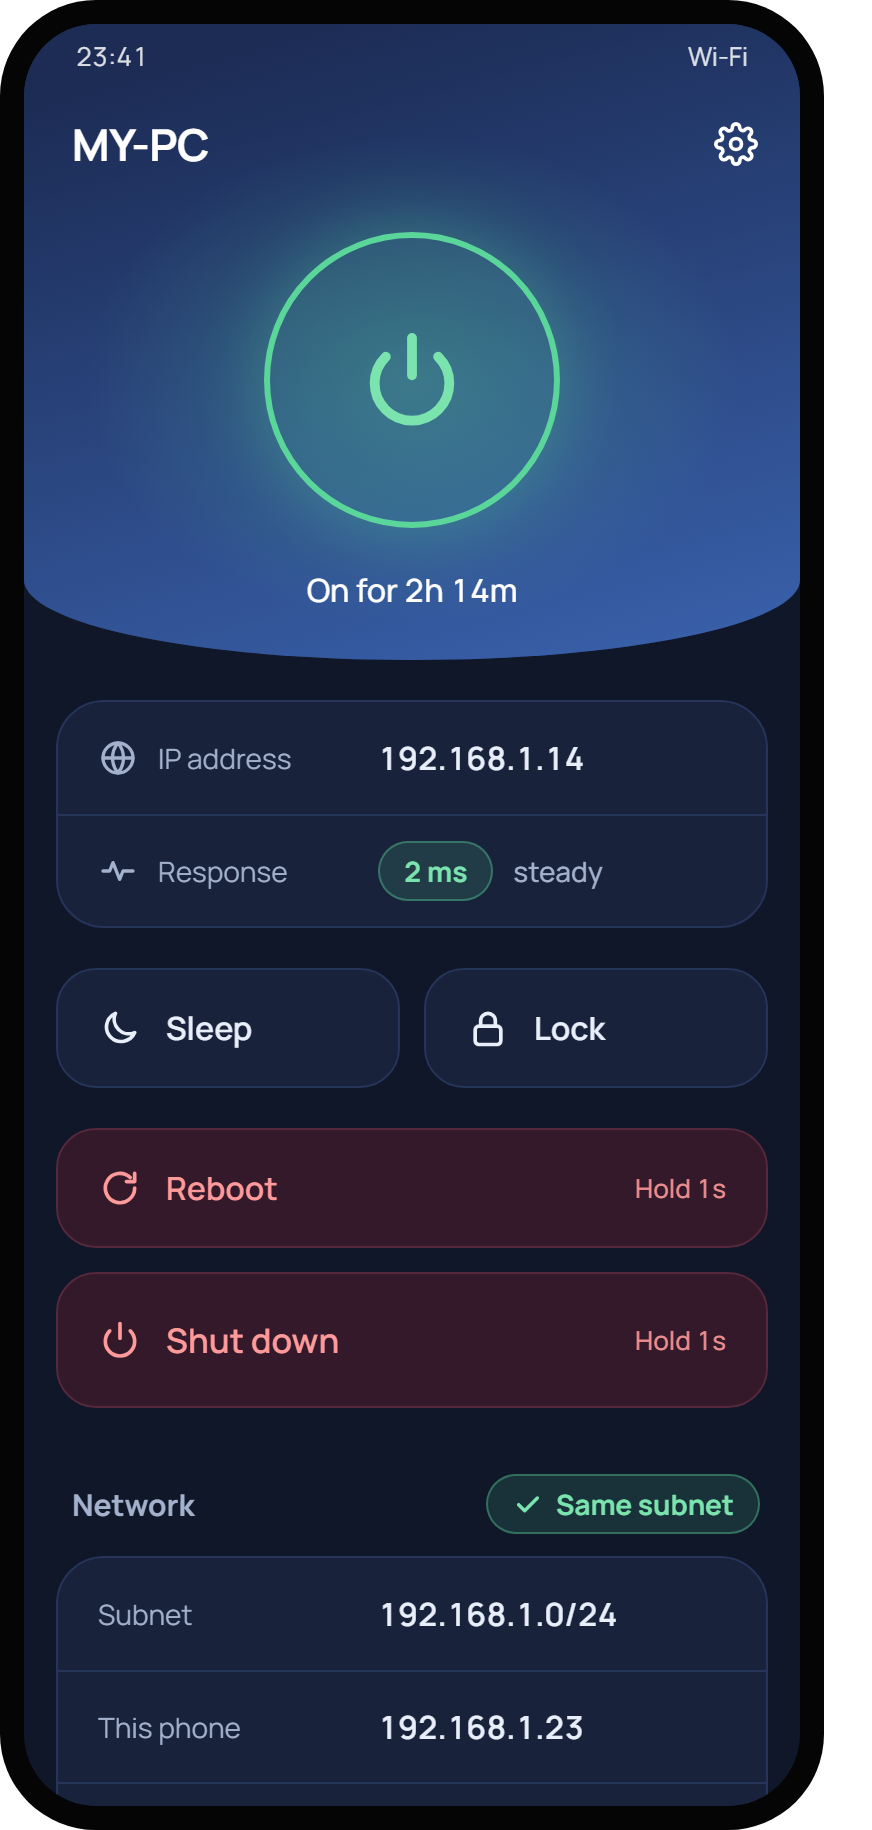
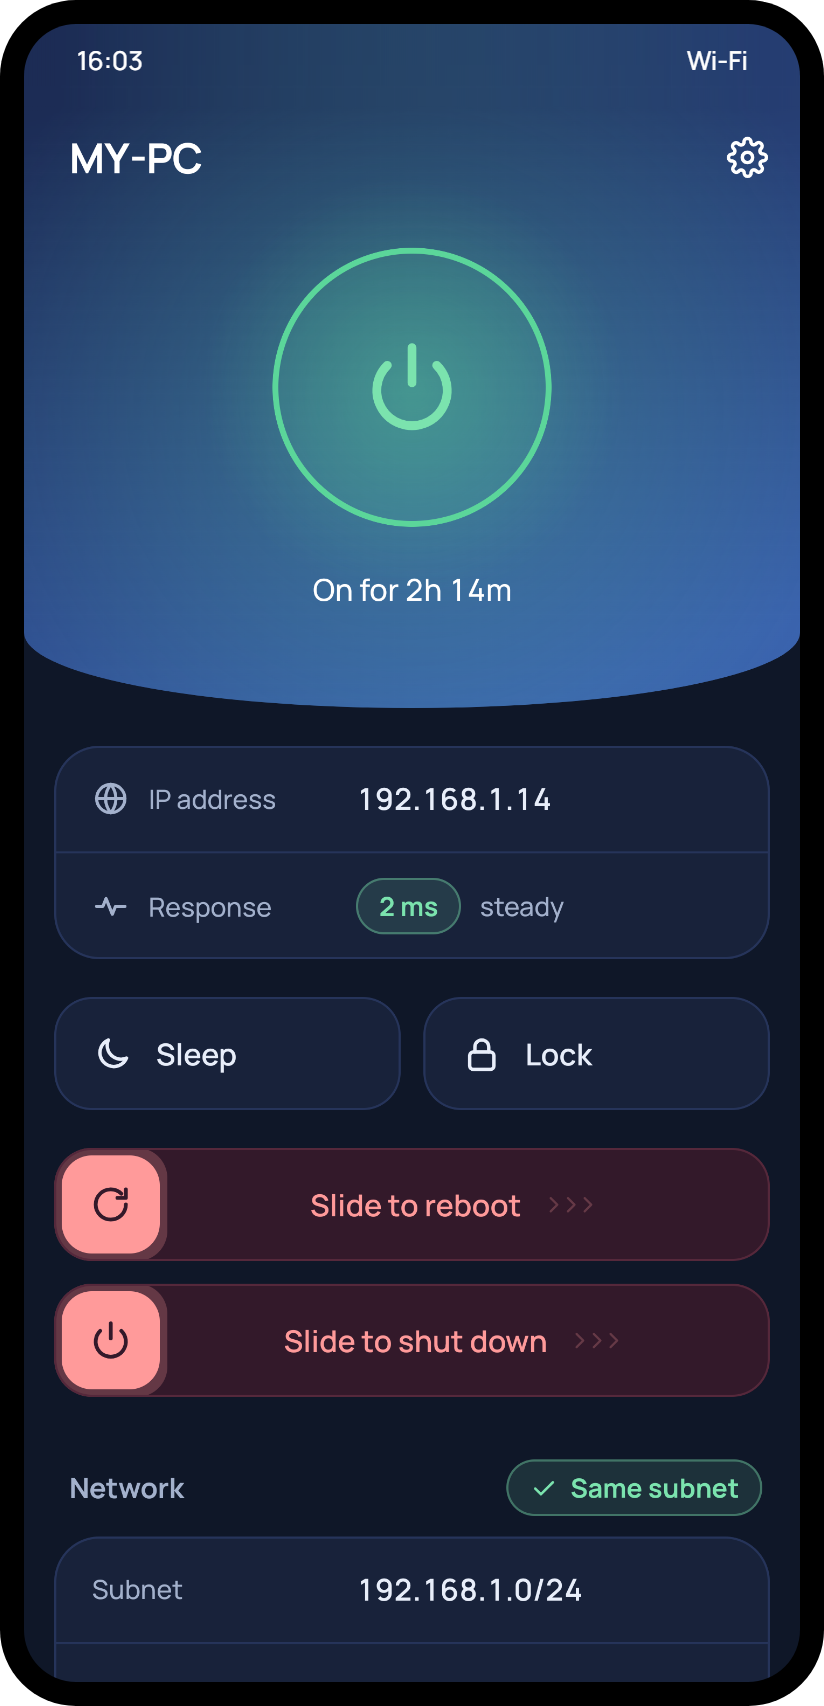
docs: retake README screenshots with the slide buttons
All six main-screen shots showed the old hold buttons. Retaken from the
debug demo states, so they still show only placeholder names and
addresses.

diff --git a/README.md b/README.md
@@ -42,8 +42,8 @@ That's it. The same steps are in the app under **Settings → How to connect**.
 
 <table>
   <tr>
-    <td align="center" width="25%"><img src="docs/screenshots/off.png" alt="PC is off. The big power button says Tap to wake, and Response shows Off since 23:02." width="200"></td>
-    <td align="center" width="25%"><img src="docs/screenshots/waking.png" alt="Waking up, 18 seconds in. A ring spins around the power button and Response shows Waiting." width="200"></td>
+    <td align="center" width="25%"><img src="docs/screenshots/off.png" alt="PC is off. The big power button says Tap to wake, and Response shows Off since 15:24." width="200"></td>
+    <td align="center" width="25%"><img src="docs/screenshots/waking.png" alt="Waking up, 20 seconds in. A ring spins around the power button and Response shows Waiting." width="200"></td>
     <td align="center" width="25%"><img src="docs/screenshots/on.png" alt="PC is on for 2 hours 14 minutes. The button turns into a green ring and Sleep, Lock, Reboot and Shut down are enabled." width="200"></td>
     <td align="center" width="25%"><img src="docs/screenshots/undo.png" alt="After sliding Shut down, a bar at the bottom says Shutting down in 3s with an Undo button." width="200"></td>
   </tr>
